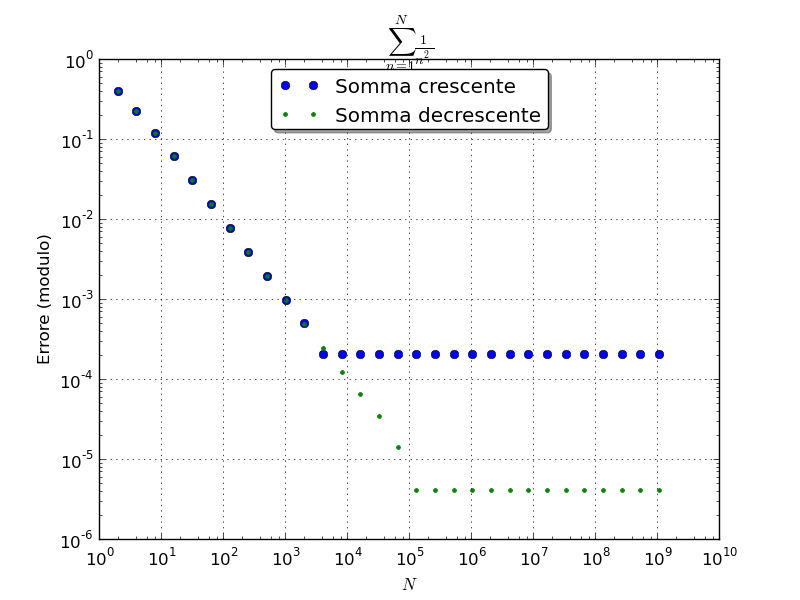
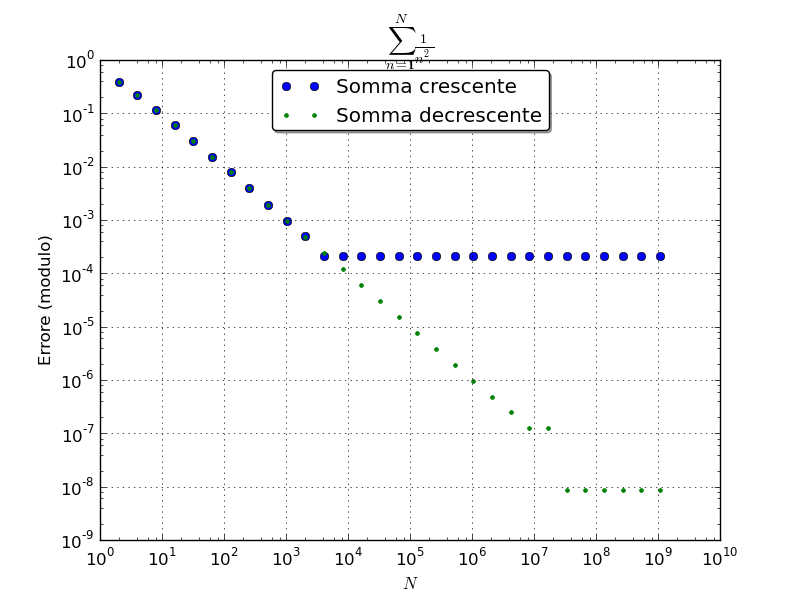
relazione

diff --git a/relazione/tex/relazione.tex b/relazione/tex/relazione.tex
@@ -1,6 +1,9 @@
 \documentclass[a4paper,10pt]{article}
 \usepackage[utf8]{inputenc}
 \usepackage[italian]{babel}
+\usepackage{amsmath}
+\usepackage{graphicx}
+
 %opening
 \title{Relazioni dal laboratorio di calcolo}
 \author{Riccardo Iaconelli}
@@ -18,21 +21,270 @@ Durante il Laboratorio di calcolo del terzo anno vengono mostrate alcune tecnich
 Questo primo esercizio viene eseguito per mostrare come si possono ridurre eventuali errori di calcolo introdotti dalle normali operazioni aritmetiche.
 
 \subsection{Analisi teorica}
-All'interno del calcolatore le cifre non sono rappresentabili con precisione infinita. Con ogni operazione è possibile ottenere errori dovuti a due tipi di problemi.
+All'interno del calcolatore le cifre non sono rappresentabili con precisione infinita. A causa di ciò, con ogni operazione effettuata è possibile ottenere errori numerici dovuti a due tipi di problemi.
 \begin{description}
  \item[Errore di overflow (o underflow)] Questo errore avviene quando il risultato è più grande del massimo numero rappresentabile, o più piccolo del minimo numero rappresentabile.
- \item[Errore di troncamento] Quando la precisione della \textit{mantissa} 
+ \item[Errore di troncamento] Quando operazioni di \textit{shift} comportano errori di arrotondamento.
 \end{description}
 
 Per vedere come questo è possibile, studiamo come sono rappresentati i numeri all'interno di un calcolatore.
+La rappresentazione all'interno del calcolatore dei numeri floating-point è fissata dallo standard IEEE 754 (1985).
+Questa specifica indica che, dato $x$ numero float, viene separato in tre parti (\textit{segno}, \textit{mantissa} ed \textit{esponente}) nel seguente modo:
+\begin{equation}
+ x= (-1)^\text{\ segno} \cdot\text{mantissa}\cdot 2^{\text{\ esponente}-E}
+\end{equation}
+
+Per ottimizzare le oeprazioni, gni numero viene inoltre memorizzato in forma ``normalizzata'', ovvero si ha sempre che
+$$\text{mantissa} = 1.\text{frazione}$$
+Ad esempio, il numero:
+$$0.15625_{10} = 0.00101_2 = 1.01_2 \cdot 2^{-3}$$
+
+In particolare, lo standard definisce due tipi di numeri con differenti precisione e con diverso \textit{bias} ($E$):
+\begin{description}
+ \item[\texttt{float}] Numeri in singola precisione, che utilizzano 32 bit di memoria. $E = 127$.
+ \item[\texttt{double}] Numeri in doppia precisione, che utilizzano 64 bit di memoria. In questo caso, $E=1023$.
+\end{description}
+I bit utilizzati per la rappresentazione sono così ripartiti:
+\begin{center}
+\begin{tabular}[center]{c|c|c|c}
+ & Segno & Esponente & Frazione \\ 
+\hline
+float & 1 & 8 & 23\\
+\hline
+double & 1 & 11 & 52 \\
+\end{tabular}
+\end{center}
+
+Nel caso appena visto, $0.15625_{10} = 1.01_2 \cdot 2^{-3}$ sarebbe rappresentato in questo modo in un \texttt{float}:
+\begin{itemize}
+\item $\text{segno}=0$
+\item $\text{esponente}=127-3=124=11111000$
+\item $\text{frazione}=010000...$
+\end{itemize}
+Una rappresentazione grafica della memoria utilizzata da un numero \texttt{double} è qui offerta:
+
+% \begin{figure}
+%  \centering
+\begin{center}
+ \includegraphics[scale=0.35]{./images/1000px-IEEE_754_Double_Floating_Point_Format.png}
+\end{center}
+ % 1000px-IEEE_754_Double_Floating_Point_Format.svg.png: 1000x202 pixel, 72dpi, 35.28x7.13 cm, bb=0 0 1000 202
+%  \caption{Una rappresentazione grafica di un numero float}
+% \end{figure}
+Si nota facilmente che c'è un errore intrinseco nella rappresentazione dei numeri dovuto alla finitezza della memoria utilizzata, non tutti i numeri sono infatti rappresentabili, e il ``gap'' tra un numero e il successivo varia in base all'ordine di grandezza utilizzato. Questo errore aumenta con alcune operazioni, consideriamo ad esempio una somma.
+
+\subsubsection{L'algoritmo di somma}
+Quando un calcolatore deve eseguire una somma, procede nel seguente modo:
+\begin{itemize}
+\item Per prima cosa, vengono confrontati gli esponenti dei due numeri, e viene \emph{shiftato}\footnote{traslato, l'operazione equivalente a dividere o moltiplicare per due} l'esponente del numero più piccolo, fino a che i due esponenti non sono uguali.
+\item Vengono a questo punto sommate direttamente le mantisse, seguendo le normali regole del complemento a due.
+\item Il numero così ottenuto viene normalizzato, modificando l'esponente di conseguenza
+\item Come ultimo passaggio, la mantissa viene arrotondata per rimanere nel numero di bit richiesto. 
+\end{itemize}
+
+Da questo processo si vede chiaramente come si ha una grossa perdita di precisione nel caso di somme di numeri di ordini di grandezza molto diversi tra loro. Quando infatti la differenza tra gli esponenti è dell'ordine di grandezza della precisione della mantissa, il contributo del numero più piccolo si perde nell'arrotondamento.
+
+Questo concetto sarà ulteriormente chiarito nel prossimo esercizio.
+
+\subsubsection{La serie di Eulero}
+Per mettere in pratica quanto visto finora in teoria, studiamo le somme parziali della serie di Eulero:
+$$\sum_{n=1}^\infty \frac{1}{n^2} = \frac{\pi^6}{2} \simeq 1.6449340 $$
+
+Per mettere più in evidenza il problema di arrotondamento, eseguiamo i nostri calcoli utilizzando solamente variabili di tipo \texttt{float}. Notiamo che nell'ordine di grandezza in cui stiamo lavorando ($2^0$) il più piccolo step rappresentabile è dato direttamente dalla precisione della mantissa: $2^{-23}\simeq 1.19\cdot10^{-7}$. Tutti i risultati saranno dunque presentati con sole 7 cifre significative.
+
+\paragraph{Somma crescente}
+Proviamo inizialmente a sommare i numeri in ordine crescente, ovvero consideriamo
+$$S_k := \sum_{n=1}^k \frac{1}{n^2}$$
+Notiamo immediatamente che quando $n^2\simeq2^{24}$, l'operazione di arrotondamento successiva alla somma (potendo utilizzare solo 23 bit per la mantissa, e sommando sempre un numero di ordine di grandezza $2^0$) perda ogni tipo di contributo dei nuovi numeri.
+
+Ci aspettiamo allora che, definito: $$k_\text{critico} := \sqrt{2^{24}} = 4096$$
+
+
+$\forall k \geq k_\text{critico}$ la somma smetta di crescere, e dunque $S_k = S_{k+1} = ...$.
+
+\paragraph{Somma decrescente}
+Per evitare il problema di arrotondamento appena illustrato, possiamo provare a considerare una somma ``inversa'' o decrescente, ovvero definire (con un piccolo abuso di linguaggio):
+
+$$S_k := \sum_{n=k}^1 \frac{1}{n^2}$$
+
+In questo modo, la somma parziale mantiene il più possibile l'ordine di grandezza del nuovo termine da aggiungere, minimizzando il problema di arrotondamento.
+
+\paragraph{Confronto tra i due metodi}
+Dopo aver realizzato in C++ due programmi che implementassero quanto appena descritto, rappresentiamo in un grafico (in scala logaritmica) l'errore che si commette con entrambi i metodi e la differenza dal valore vero.
+\begin{center}
+\includegraphics[scale=.55]{../images/serie.png}
+\end{center}
+
+Notiamo come l'errore scende drammaticamente utilizzando il metodo della somma decrescente. In particolare, si raggiunge tranquillamente una precisione dell'ordine di $10^{-7}$, come prescriverebbe la teoria. Continunando con le iterazioni si arriva anche a $10^{-8}$, anche se è solo una fluttuazione numerica priva di ogni significatività.
+
+\subsection{Conclusioni}
+Abbiamo studiato come la rappresentazione finita dei numeri all'interno di un calcolatore introduca errori ed imprecisioni all'interno dei nostri algoritmi.
+Questi errori, se non considerati, possono portare a significativi errori nel computo finale.
+
+Conoscendo bene come funzionano le operazioni di base nel calcolatore, è però possibile con alcuni accorgimenti raggiungere precisioni molto vicine a quelle consentite dalla rappresentazione stessa.
+
+Viene allegato il codice sorgente C++ che implementa gli algoritmi qui descritti.
 
 \section{Integrazione con metodi deterministici}
+Esistono diversi modi per approssimare numericamente integrali con metodi deterministici. Ci interessa trovare delle soluzioni generali, nell'ipotesi monodimensionale. Studieremo le formule di \emph{Newton-Cotes} al primo e al secondo ordine (metodo \emph{dei trapezi} e metodo \emph{di Simpson}), ed arriveremo ad implementare il metodo delle \emph{quadrature gaussiane}.
+
+\subsection{Introduzione al problema}
+L'integrazione numerica attraverso metodi deterministici presuppone che la funzione da integrare non sia necessariamente nota globalmente in forma analitica, ma ne siano perlomeno noti alcuni punti, che chiameremo \emph{campioni}.
+
+Indicheremo i campioni della funzione (da qui in avanti $f(x)$) con la notazione $x_i$. Interpoleremo i campioni con delle funzione note dette \emph{interpolatrici} e calcoleremo l'integrale di queste ultime.
+
+È in teoria possibile scegliere ogni tipo di funzione interpolante. Per la nostra analisi sceglieremo dei polinomi di grado generico $n$, e ne scriveremo esplicitamente le soluzioni in alcuni casi. Ovviamente, la complessità (e la precisione) di questi calcoli dipendono strettamente dal tipo di funzione scelta.
+
+\subsection{Il polinomio interpolatore di Lagrange}
+Supponiamo dunque di avere una funzione $f(x)$ e $N$ campioni $x_i = x_1, \dots, x_N$ per i quali siano noti i valori della funzione $f(x_i)$
+
+Si consideri il \emph{polinomio di Lagrange}:
+$$l_j(x):=\displaystyle\prod_{i=0;\, i\neq j}^n \dfrac{(x-x_i)}{(x_j-x_i)}$$
+Notiamo che per il polinomio di Lagrange vale la seguente proprietà secondo cui
+$$l_j(x) = \delta_{ij}$$
+Si definisce ora il polinomio interpolatore di Lagrange come combinazione lineare dei polinomi di Lagrange:
+$$P(x):= \sum_{i=0}^{n}f(x_i)\,l_i(x)$$
+Notiamo che il polinomio così definito è di grado $N-1$, e inoltre $P(x_i) = f(x_i)$. Possiamo dire che $P(x)$ \emph{interpola} esattamente la funzione $f(x)$ nei punti $x_i$.
+
+\subsection{Le formule di Newton-Cotes}
+Utilizziamo il polinomio interpolatore di Lagrange per derivare delle formule utili al calcolo degli integrali. Le formule che stiamo per introdurre si chiamano di Newton-Cotes, e possono essere applicate nell'ipotesi che gli $x_i$ siano equispaziati.
+Nel caso invece fosse possibile campionare la funzione in più punti, è possibile fare ricorso a strumenti più potenti come le formule di \emph{quadratura gaussiana}, che vedremo in seguito.
+
+Partiamo dalla definizione di integrale secondo Riemann:
+$$\int f(x)dx = \lim_{\Delta x \to 0} \sum f(x)\Delta x$$
+Supponiamo di volere integrare la funzione $f(x)$ nell'intervallo $[a,b]$
+Allora, scelti appositamente dei pesi $\omega_i$, possiamo approssimare il nostro integrale con una somma:
+$$\int_a^bf(x)dx \simeq \sum_i \omega_i f(x_i)$$
+
+A questo punto:
+$$\int_a^bf(x)dx \simeq \int_a^b P(x) dx = \sum_i \omega_i f(x_i)$$
+dove
+$$\omega_i := \int_a^b l_i(x) dx $$
+
+Utilizziamo ora l'ipotesi di equispaziatura dei campioni. In questo caso, con $h:=(b-a)/N$, si ha necessariamente $x_i = a+hi$. Operiamo il cambio di variabile
+$$z:=\frac{x-a}{h}$$
+Si dunque ha che
+$$\omega_i = h\int_0^n l_i(a+zh)dz = h\int_0^n \prod_{i\neq j}\frac{z-i}{j-i}dz$$
+indipendente dagli estremi di integrazione a e b.
+
+Definiamo per comodità anche i parametri $$\gamma_j := \frac{\omega_j}{h} = \int_0^n \prod_{i\neq j}\frac{z-i}{j-i}dz$$.
+
+Dobbiamo però arrivare anche alla stima dell'errore che commettiamo.
+Si può provare con il teorema di Rolle che, dati $n$ punti, commettiamo un errore dato da:
+$$f(x)-P(x) = \frac{1}{(n+1)!}f^{(n+1)}\left(\xi(x)\right)\prod_{i=0}^{n}(x-x_i) =: \text{Err}(x)$$
+dove $\xi(x)\in[a,b]$.
+A questo punto:
+$$\int_a^bf(x)dx - \int_a^b P(x) dx = \int_a^b \text{Err}(x)dx$$
+
 \subsection{Metodo dei Trapezi}
+Il metodo dei trapezi è il metodo che si ottiene utilizzando le formule di Newton-Cotes con $n=1$. In questo caso necessariamente $x_0 = a$ e $x_1 = b$.
+
+Un breve calcolo sui coefficienti mostra che:
+$\gamma_0$ e $\gamma_1$ mostra che $$\gamma_0 = \dfrac{1}{2}\qquad \text{e}\qquad \gamma_1 = \dfrac{1}{2}$$
+
+Stimiamo anche $\int_a^b \text{Err}(x)dx$.
+Per il teorema della media sappiamo che
+\begin{eqnarray}
+\int_a^b\text{Err}(x)dx =& \dfrac{1}{2}\displaystyle\int_a^bf''(\xi(x))(x-a)(x-b)\,dx \\
+=& \dfrac{1}{2}f''(c)\displaystyle\int_a^b(x-a)(x-b)\,dx \\
+=& \dfrac{h^3}{2}f''(c)\displaystyle\int_0^1z(z-1)\,dz \\
+=& -\dfrac{h^3}{12}f''(c) \\ \leq& \text{max}(f''(x))\dfrac{h^3}{12}
+\end{eqnarray}
+
+Dunque in generale, al variare dell'intervallo, l'errore scalerà come $h^3$.
+
 \subsection{Metodo di Simpson}
+Il metodo di Simpson è quello che si ottiene dalle formule di Newton-Cotes al secondo ordine.
+In questo caso si calcola semplicemente:
+$$\gamma_0 = \dfrac{1}{3}\qquad \gamma_1 = \dfrac{4}{3}\qquad \text{e}\qquad \gamma_2 = \dfrac{1}{3}$$
+
+Dunque il nostro integrale sarà dato da
+$$\int_a^bf(x)dx = \frac{h}{3} \big[f(x_0)+4f(x_1)+f(x_2)\big] + E_2$$
+Analogamente a prima, calcoliamo il nostro errore. Notiamo che aggiungendo al campionamento un punto coincidente a quello centrale ($x_3=x_1 = \frac{a+b}{2}$) non vengono dati contributi alla stima dell'integrale, ma possiamo valutare l'errore (più semplice) $E_3$ delle formule di ordine 3.
+
+Utilizzando sempre il teorema della media pesata:
+$$E_3=\frac{h^5}{24}\,\text{max}(f^{(4)})\int_0^2z(z-1)^(z-2)\,dz\, = \text{max}(f^{(4)})\frac{h^5}{90}$$
+
 \subsection{Metodo delle Quadrature Gaussiane}
+Fino a questo momento, abbiamo ristretto la nostra analisi a funzioni campionate ad intervalli regolari. Nel caso in cui possiamo fare cadere questa ipotesi e scegliere noi i punti nei quali campionare la funzione, riusciamo ad avere stime estremamente più efficienti. Un metodo per fare ciò è il cosiddetto metodo delle \emph{quadrature gaussiane}.
+
+Il teorema fondamentale su cui si basa questo metodo dice che, dato $P(x)$ generico polinomio di grado minore di $2N$, e date $x_0,\dots,x_{n-1}$ radici di un polinomio ortogonale di ordine $N$, vale la seguente uguaglianza
+$$\int_a^b P(x)\,\omega(x)\,dx = \sum_{i=0}^{n-1} \omega_i P(x_i)$$
+o equivalentemente
+$$\int_a^b f(x)\,\omega(x)\,dx = \sum_{i=0}^{n-1} \omega_i P(x_i)$$
+è esatta fino all'ordine $2N-1$, dove $\omega(x)$ è la misura e gli $\omega_i$ sono definiti come prima.
+
+In altre parole, il succo di questo teorema sta nel fatto che scegliendo i campioni proprio nelle radici di una famiglia di polinomi ortogonali, riusciamo a utilizzare la stima dell'errore di Newton-Cotes di ordine doppio rispetto a quanto avremmo con un campionamento uniforme, ovvero, con $P_n$ polinomio ortogonale di ordine $n$:
+
+$$\int_a^b f(x)\,\omega(x)dx = \sum_{i=0}^{n-1}\omega_i\,f(x_i) + \frac{1}{(2n)!}\int_b^a f^{(2n)}\left(\xi(x)\right)P_n^2(x)\omega(x)\,dx$$
+
+\subsection{I metodi alla prova}
+Testiamo i metodi di integrazione con una funzione particolarmente ostica:
+$$f(x) = (e^x+1+x^9-8x^8+\sinh(5x))e^{-x^2}$$
+Mostriamo qui il grafico e il grafico logaritmico della funzione:
+%\begin{figure}[htp]
+%\centering
+\begin{center}
+\includegraphics[scale=0.5]{../images/funzione-integranda.png}
+\end{center}
+\begin{center}
+\includegraphics[scale=0.5]{../images/funzione-integranda-log.png}
+\end{center}
+%\caption{Funzione integranda}
+%\end{figure}
+Come test delle procedure, integriamo questa funzione tra 1 e 10, e valutiamo il modulo dell'errore rispetto al valore vero dell'integrale (ottenuto mediante procedure di integrazione indipendenti e a precisione arbitraria).
+
+\subsubsection{Errore in funzione del numero di intervalli}
+Per aumentare la precisione dei nostri conti senza fare crescere i polinomi utilizzati di grado, possiamo dividere il nostro intervallo di integrazione in $m$ sottointervalli ($m = (b-a)/h$).
+
+Calcolando esplicitamente l'errore in funzione di $m$, si ottengono i seguenti risultati:
+\begin{description}
+\item[Trapezi] $$\text{Err} \propto \frac{(b-a)^3}{12m^2}\propto\frac{1}{m^2}$$
+\item[Simpson] $$\text{Err} \propto \frac{(b-a)^5}{180(2m)^4} \propto\frac{1}{m^4}$$
+\item[Quadrature gaussiane] Utilizzando un polinomio di ordine $n$ si ha che $$\text{Err} \propto m\frac{f^{(2n)}(\xi)}{(2n)!}\frac{1}{m^{2n}} \propto\frac{1}{m^{2n-1}}$$
+\end{description}
+
+Dapprima svolgiamo il conto con i numeri \texttt{double} e grafichiamo l'andamento dell'errore rispetto al campionamento. Utilizziamo per le quadrature gaussiane polinomi di grado 5.
+\begin{center}
+\includegraphics[scale=0.5]{../images/integrali/integralisommaprecisa.png}
+\end{center}
+Notiamo come la precisione del metodo delle quadrature gaussiane raggiunge quasi subito la precisione macchina, mentre gli altri due metodi impiegano più tempo a convergere.
+
+Utilizziamo, per continuare la nostra analisi, una libreria C (GNU MPFR) per utilizzare dei numeri floating-point a 50 cifre significative, e ripetiamo i risultati con più intervalli.
+
+\begin{center}
+\includegraphics[scale=0.5]{../images/integrali/integralibigprecision-longrun.png}
+\end{center}
+
+Notiamo come l'errore sia nel metodo dei trapezi che in quello di Simpson continua a calare come previsto fino a una precisione di $10^{-20}$, oltre la quale entrano in gioco arrotondamenti sconosciuti che limitano la velocità di caduta dell'errore delle quadrature gaussiane.
+
+Eseguendo un fit con una funzione del tipo $y = Ax^{-B}$ per valutare la pendenza delle rette otteniamo i valori:
+\begin{description}
+\item[Trapezi] $B=2.13 \pm 0.43$
+\item[Simpson] $B=4.14 \pm 0.11$
+\item[Gauss] $B=8.9 \pm 0.5$
+\end{description}
+
+ovvero tutti valori compatibili con la teoria.
+
 \subsection{Conclusioni}
 
+Esistono diversi metodi deterministici per approssimare numericamente integrali analiticamente sconosciuti. Le formule di Newton-Cotes sono strumenti molto potenti nel caso in cui si disponga di campionamenti della funzione equispaziati (caso molto comune in fisica sperimentale). Nel caso, invece, in cui si possa campionare la funzione integranda a piacere, è più conveniente utilizzare le formule di quadratura gaussiana, che arrivano a soluzioni precise molto velocemente.
+
+I risultati ottenuti sono compatibili con le previsioni teoriche.
+
 \section{Integrazione Monte-Carlo}
+
+I metodi per l'integrazione deterministica sono molto efficienti, ma risentono di problemi quando si vogliano adattare a casi multidimensionali.
+Un'analisi approfondita degli errori nel caso multidimensionale mostra che la complessità computazionale cresce esponenzialmente con il numero delle dimensioni. Se prima il costo computazionale $N_c$ era proporzionale al numero di intervalli $m$, ora $N_c \propto m^d$, dove $d$ è il numero di dimensioni. Questo ha effetti catastrofici sulla convergenza degli integrali. Ad esempio, nel caso dei trapezi, l'errore diventa:
+$$E\propto\frac{1}{N^{\frac{2}{d}}}$$
+Ciò è particolarmente problematico per integrali in $10^9$ dimensioni, non rari in Fisica Teorica.
+
+Per ovviare a questo fatto, vengono introdotti i metodi di integrazione Montecarlo, che basano la loro efficacia sul campionamento casuale della funzione. Questi metodi hanno la piacevole caratteristica (derivante da teoremi statistici) di avere un errore sempre proporzionale a $N^{-1/2}$ (con $N$ numero di campionamenti), indipendentemente dal numero di dimensioni in cui si sta operando.
+
+Il teorema su cui si basa la teoria dell'integrazione Monte-Carlo è il teorema del limite centrale, che stabilisce che, date $N$ variabili aleatorie $\{x_i\}$ con distribuzione di probabilità qualsiasi, al limite $N\to\infty$ la variabile somma $y = \sum x_i$ sarà distribuita in modo gaussiano.
+In generale allora
+
 \subsection{Ago di Buffon}
 
 \section{Integali di Feynman}

diff --git a/relazione/serie.py b/relazione/serie.py
@@ -19,14 +19,18 @@ plt.title(r"$\sum_{n=1}^{N} \frac{1}{n^2}$")
 a = []
 n = []
 for el in sommaCrescente:
-  a.append(abs(el[1]-1.64493406685))
+#  a.append(abs(el[1]-1.64493406685))
   n.append(el[0])
+  a.append(abs(el[2]))
 plt.plot(n, a, 'o')
 a = []
 n = []
 for el in sommaDecrescente:
-  a.append(abs(el[1]-1.64493406685))
+#  a.append(abs(el[1]-1.64493406685))
   n.append(el[0])
+  a.append(abs(el[2]))
+
+
 plt.plot(n, a, '.')
 plt.yscale('log')
 plt.xscale('log')

diff --git a/relazione/integralibackend.py b/relazione/integralibackend.py
@@ -14,9 +14,10 @@ class IntegraliBackend:
     else:
       self.disegna1(legenda1)
     param = self.findfit(minx, maxx)
-    xin = np.arange(2, 100)
-    yin = func(param, xin)
-    plt.plot(xin, yin)
+    print param
+    #xin = np.arange(2, 100)
+    #yin = func(param, xin)
+    #plt.plot(xin, yin)
     plt.savefig("images/integrali/integrali"+titolo+".png")
     #self.disegna2(legenda2)
     #plt.savefig("images/integrali/integrali-intervalli"+titolo+".png")
